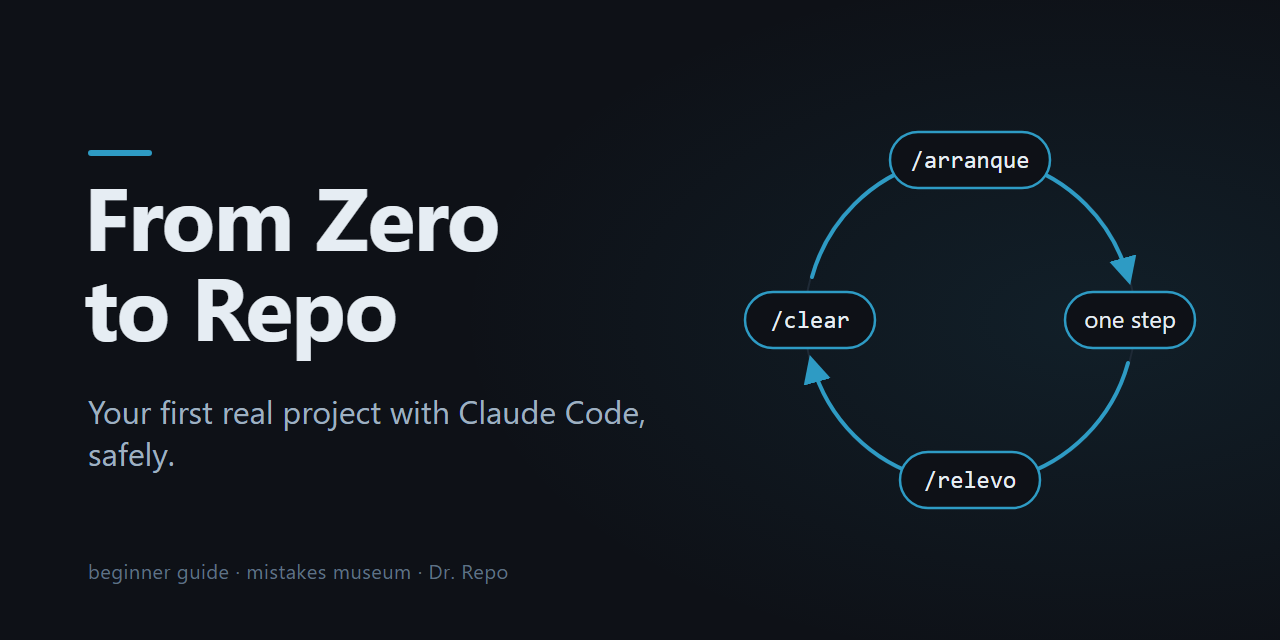
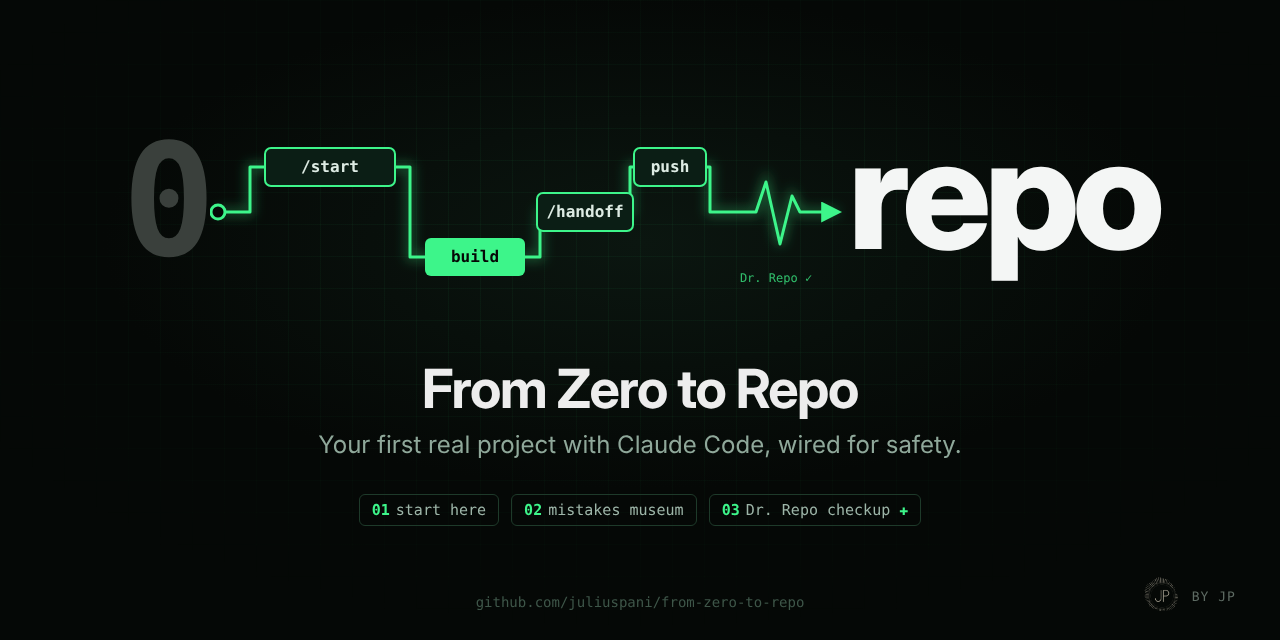
docs: the new social preview, also as the README header image

diff --git a/CHANGELOG.md b/CHANGELOG.md
@@ -10,6 +10,7 @@ All notable changes to From Zero to Repo.
   project where the method was born). Neither name is a built-in Claude Code command. If your project was created from
   v1.0.0, rename `.claude/commands/arranque.md` to `start.md` and `relevo.md` to `handoff.md` by hand, or keep the old
   names: nothing else depends on them.
+- **A new social preview** (`docs/assets/social-preview.png`, 1280 × 640), also shown as the header image of the README.
 
 ## [1.0.0] — 2026-10-29
 

diff --git a/README.md b/README.md
@@ -1,3 +1,5 @@
+![From Zero to Repo: from 0 to repo through /start, build, /handoff and push, with a Dr. Repo checkup. Your first real project with Claude Code, wired for safety.](docs/assets/social-preview.png)
+
 **English** · [Español](#resumen-en-español)
 
 # From Zero to Repo
